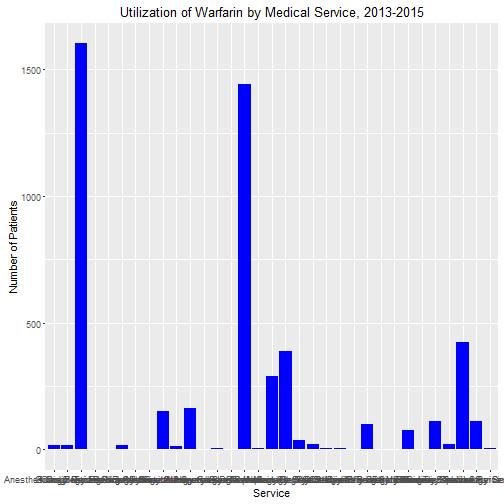
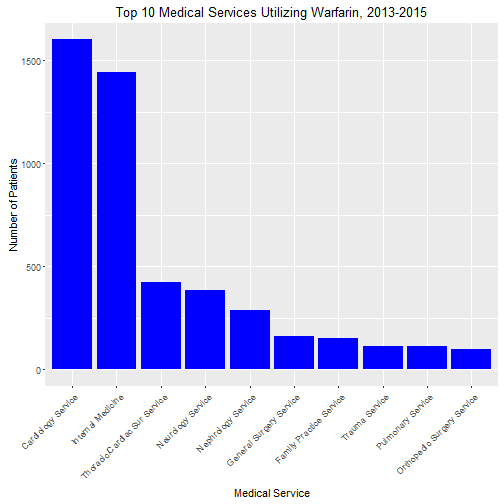
updated medical services graph

diff --git a/warfarin_analysis.html b/warfarin_analysis.html
@@ -799,6 +799,14 @@ hljs.initHighlightingOnLoad();
 </div>
 
 </section>
+<section data-transition="linear" data-transition-speed="default">
+<h3>Utilization by Medical Service</h3>
+<div class="mediaOnly slideContent" >
[1 lines of base64/hex data omitted]
+
+</div>
+
+</section>
 
 
   </div>
